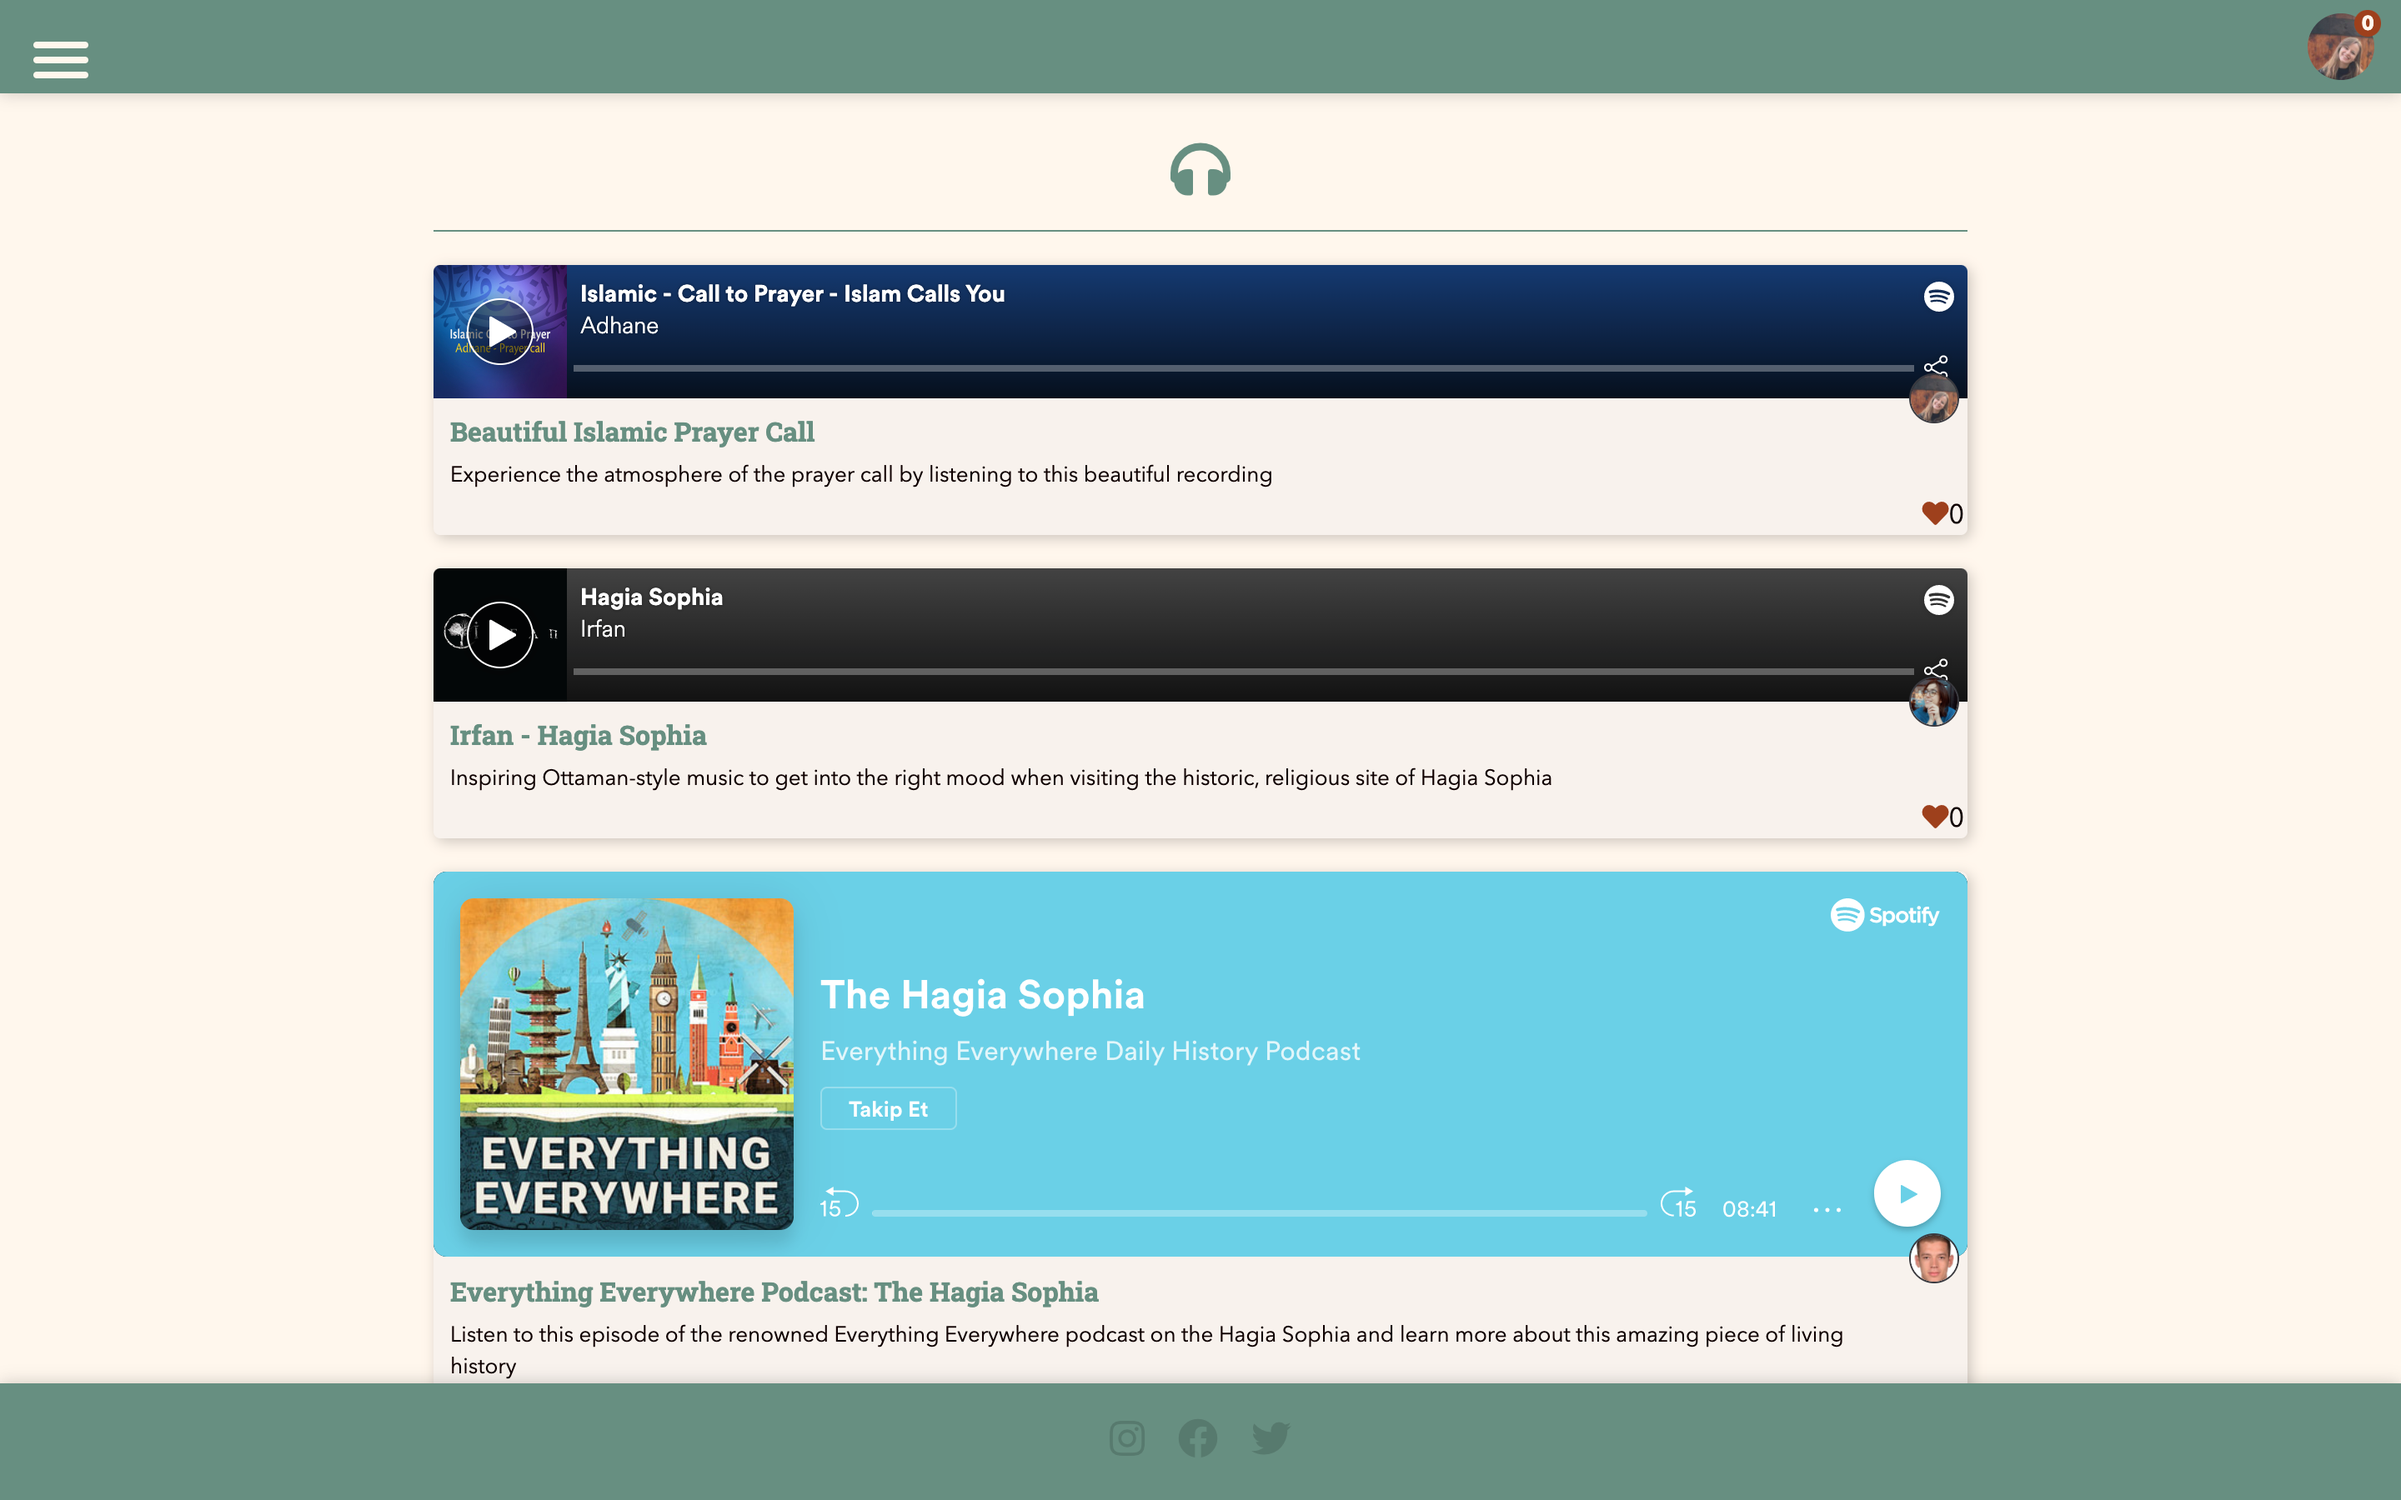
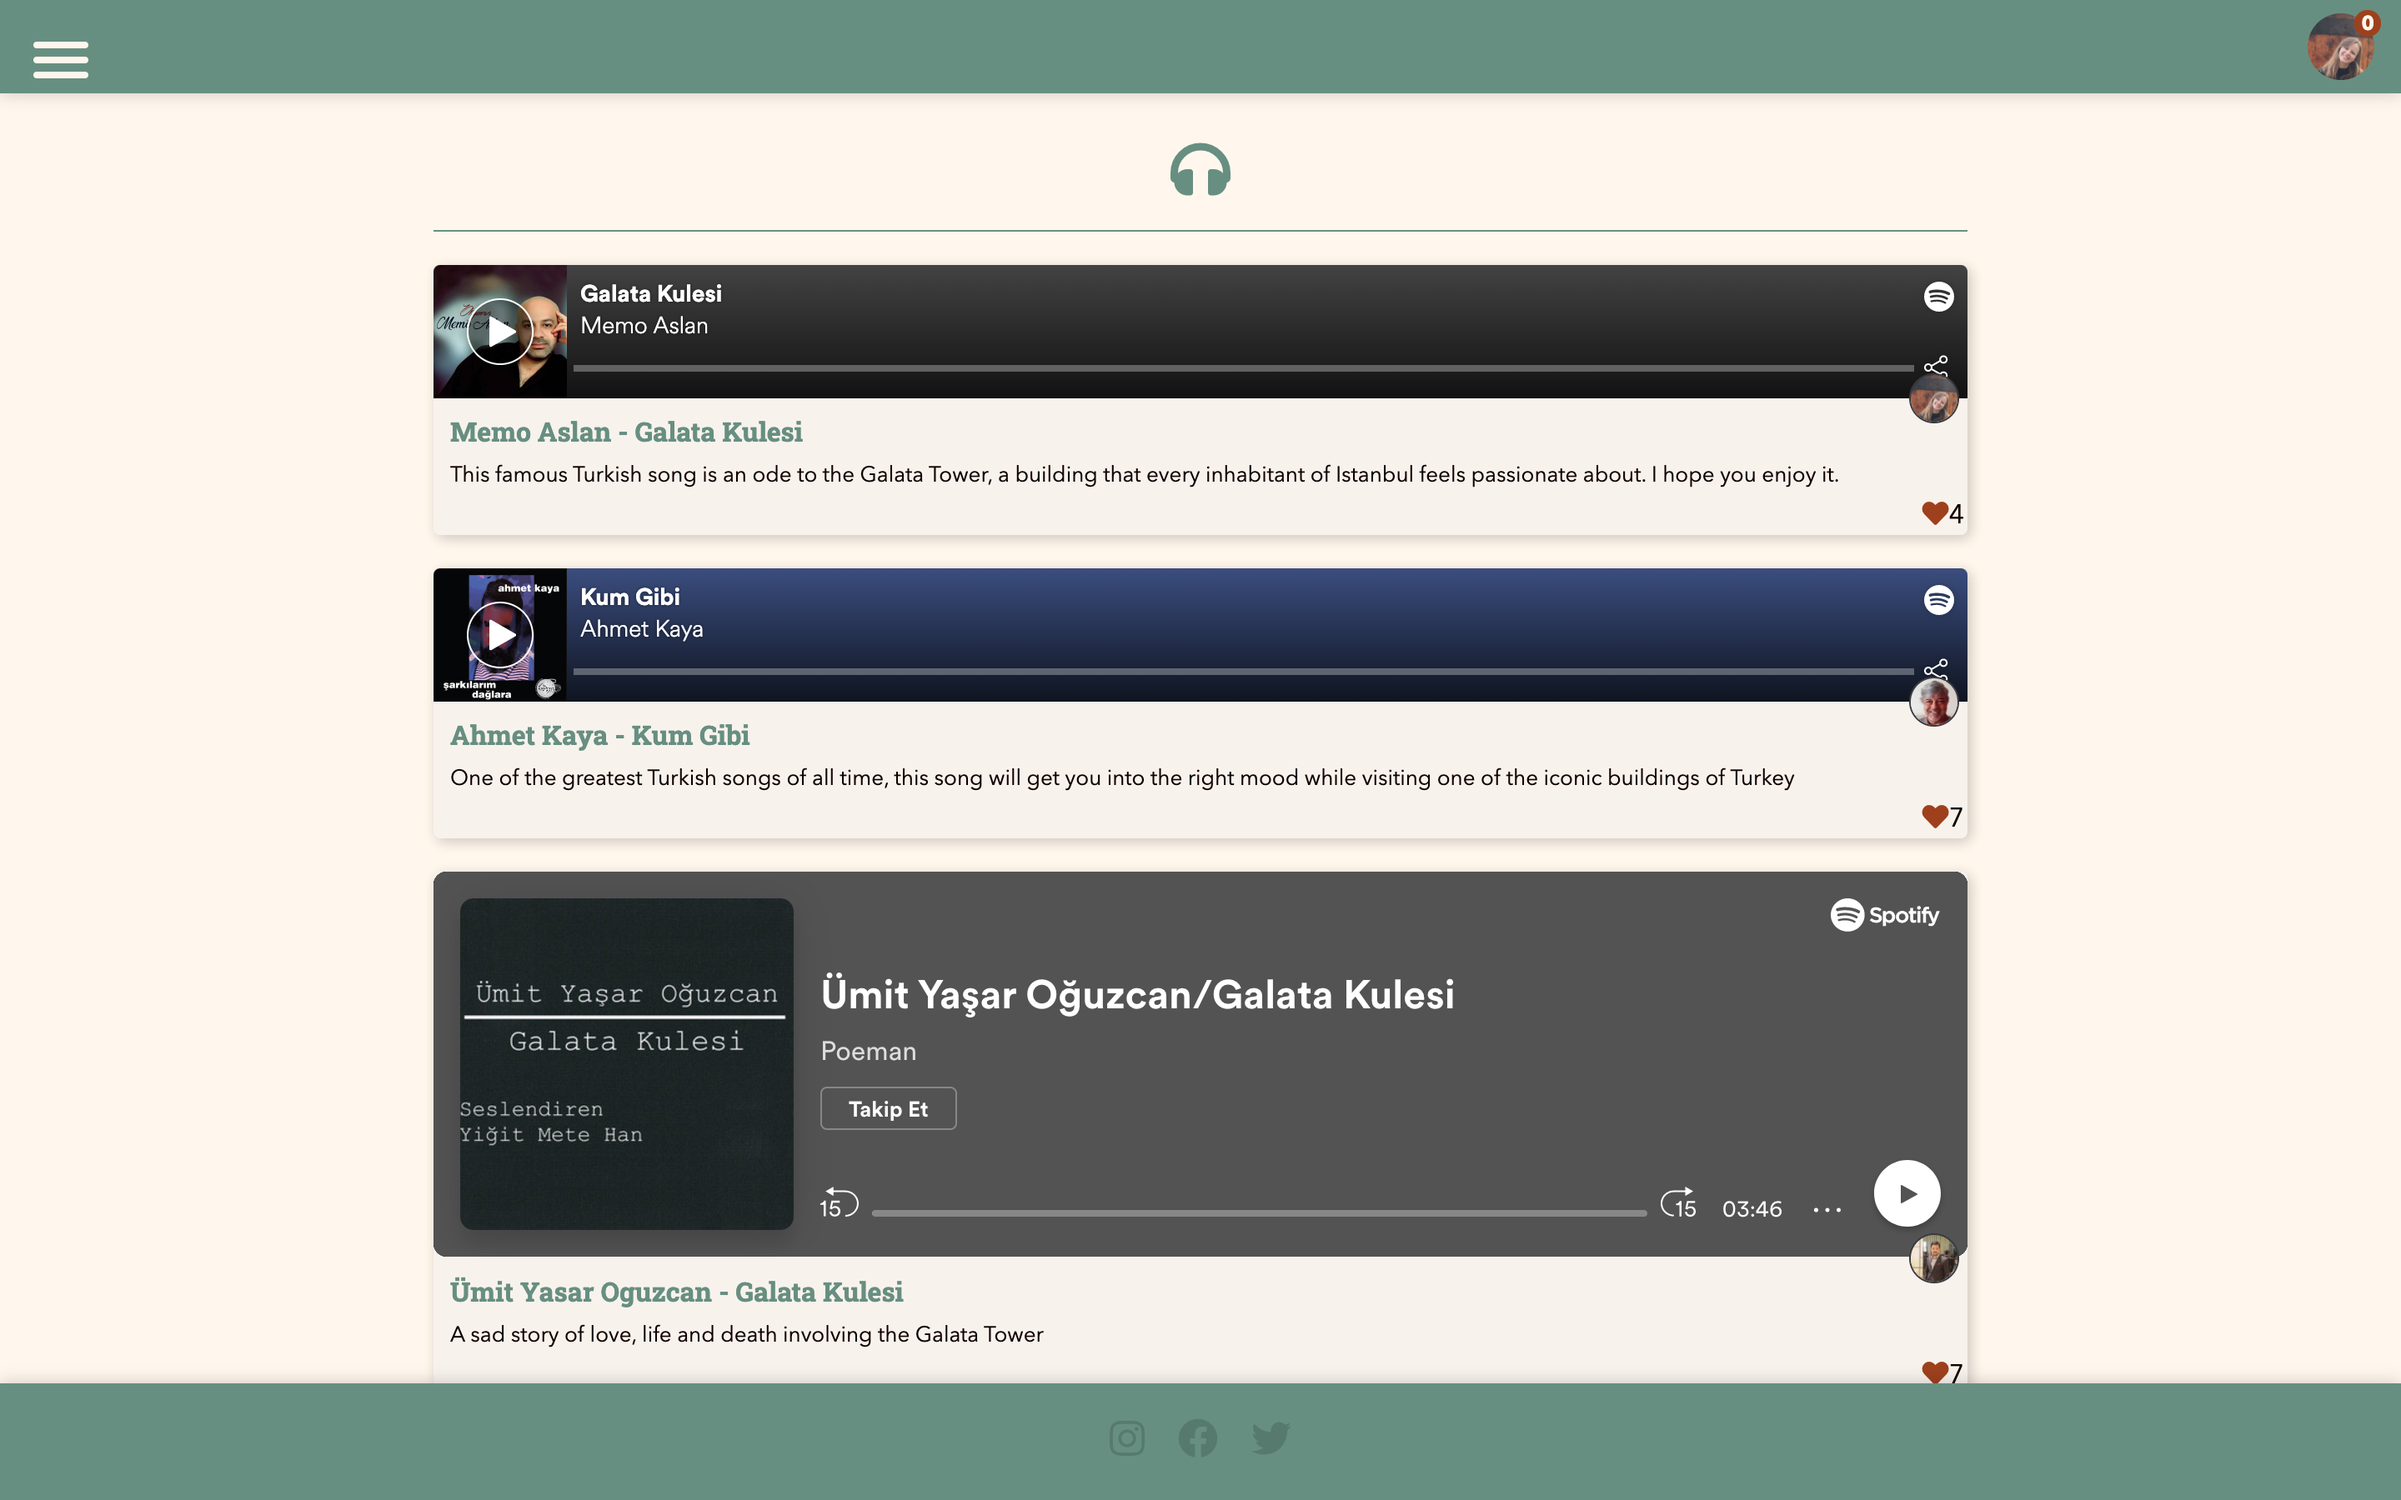
Added: information on galata project

diff --git a/app/assets/stylesheets/components/_navbar.scss b/app/assets/stylesheets/components/_navbar.scss
@@ -1,5 +1,6 @@
 .navbar-lewagon {
   justify-content: space-between;
+  // background: transparent;
   background: linear-gradient(to bottom right, #ff9800, #ffa726);
   position: fixed;
   z-index: 1;
@@ -18,3 +19,4 @@
     }
   }
 }
+

diff --git a/app/assets/stylesheets/components/_portfolio.scss b/app/assets/stylesheets/components/_portfolio.scss
@@ -87,6 +87,7 @@
   padding: 16px;
   color: #E9EAEC;
 }
+
 .text {
   color: #E9EAEC;
 }
